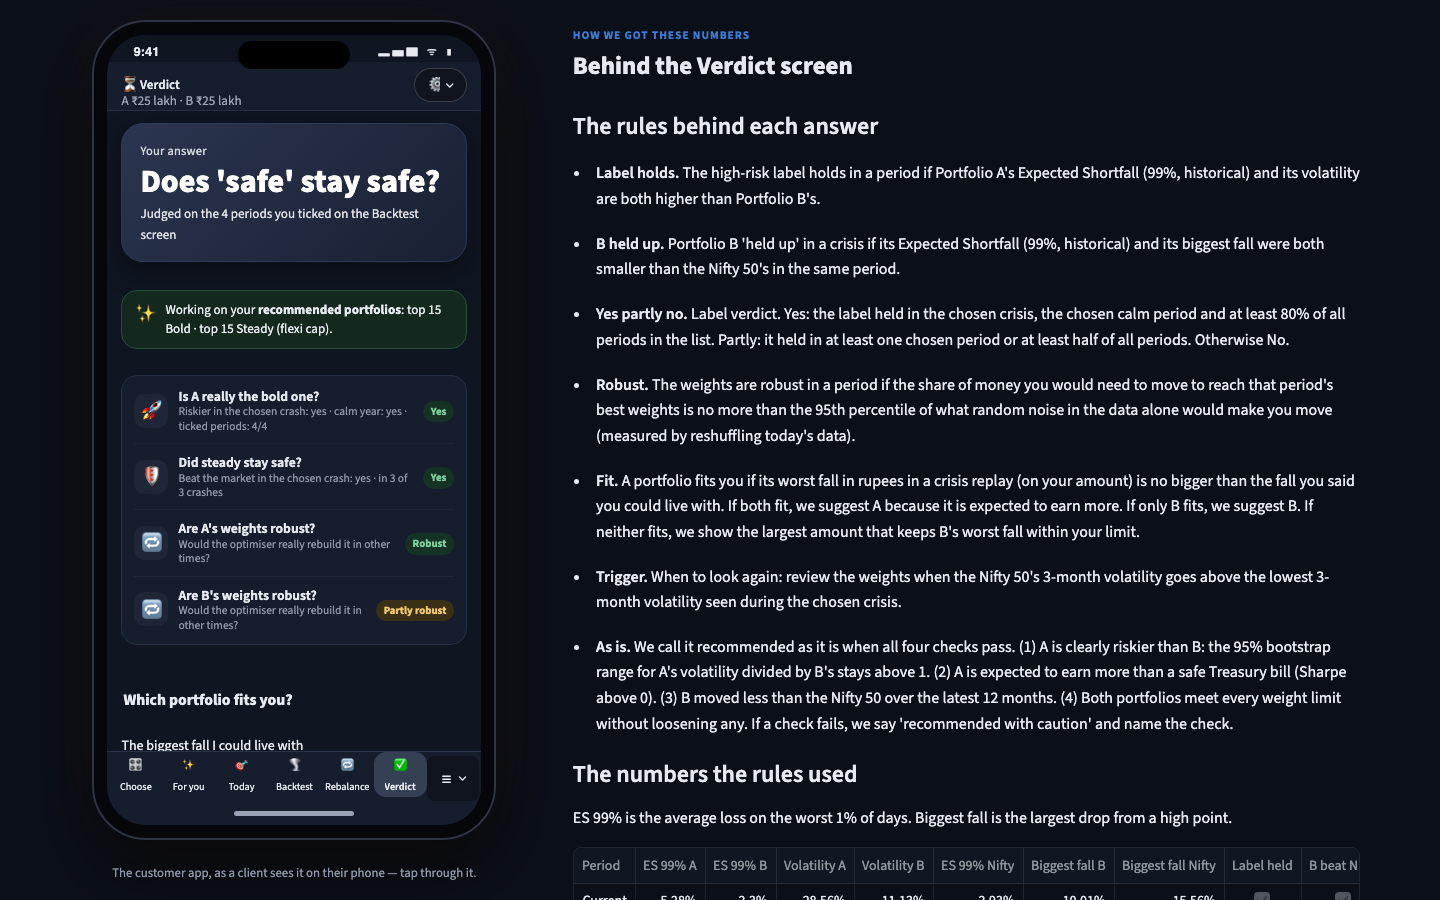
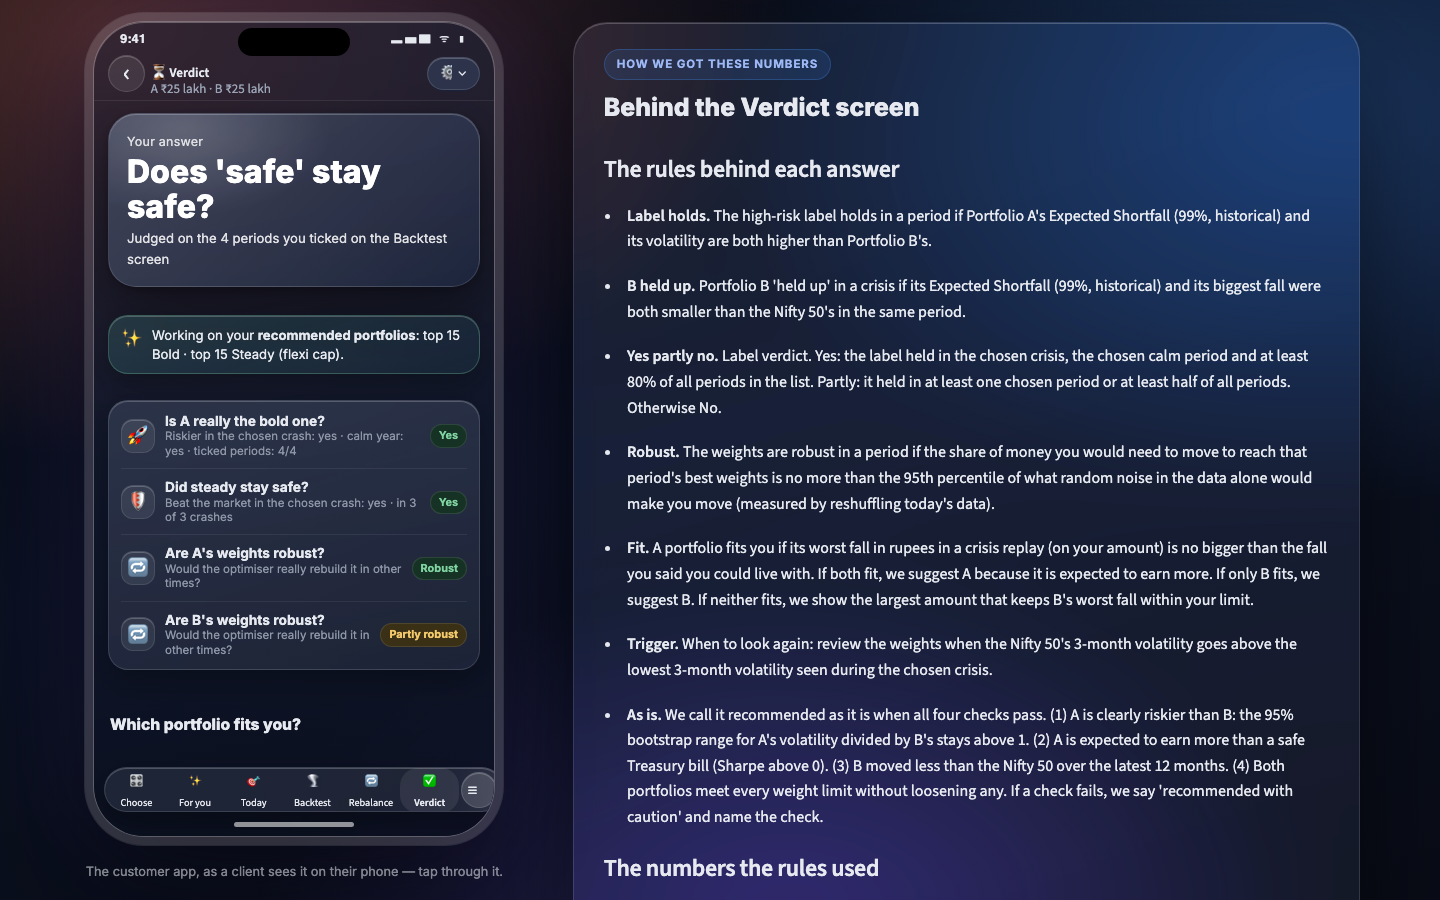
Spatial glass look, back button, always-visible tab bar
- Frosted-glass cards and windows over a soft ambient glow; floating glass phone and working panel; glowing pill buttons; Inter font
- Back button in the app bar (previous screen, else previous step of the flow)
- Tab bar always on screen: fixed floating bar on phones; the virtual phone fits the window height and stays in view while the working panel scrolls
- Phone layout flag kept in plain session state (widget state was dropped on page switches, so phones fell back to the framed layout)

diff --git a/src/ui.py b/src/ui.py
@@ -143,7 +143,7 @@ def fig_style(fig: go.Figure, height: int = 380, title: str | None = None) -> go
 
 
 def show(fig: go.Figure) -> None:
-    if st.session_state.get("phone") or _CTX["in_client"]:
+    if st.session_state.get("is_phone") or _CTX["in_client"]:
         h = fig.layout.height or 380
         fig.update_layout(height=min(int(h * 0.82), 420) if h < 600 else 520,
                           margin=dict(l=4, r=4, t=36 if (fig.layout.title.text or "") else 8, b=4),
@@ -188,7 +188,7 @@ def universe_table() -> pd.DataFrame:
 def init_state() -> None:
     for k, v in DEFAULT_STATE.items():
         st.session_state.setdefault(k, v)
-    st.session_state.setdefault("phone", detect_phone())
+    st.session_state.setdefault("is_phone", detect_phone())  # plain state: widget state is dropped on page switches
     res = default_results()
     st.session_state.setdefault("pick_A", list(res["picks"]["A"]))
     st.session_state.setdefault("pick_B", list(res["picks"]["B"]))
@@ -597,6 +597,161 @@ button[kind="primary"], button[kind="secondary"] { min-height: 2.8rem; border-ra
 """
 
 
+# ---------------------------------------------------------------- spatial look: glass windows floating over a soft glow
+SPATIAL_CSS = """
+<style>
+@import url('https://fonts.googleapis.com/css2?family=Inter:wght@400;500;600;700;800&display=swap');
+:root { --glass: rgba(255,255,255,.065); --glass-hi: rgba(255,255,255,.11); --edge: rgba(255,255,255,.13);
+  --edge-top: rgba(255,255,255,.30); --blur: blur(26px) saturate(165%);
+  --lift: 0 24px 60px rgba(0,0,0,.45), 0 2px 8px rgba(0,0,0,.25); --shine: inset 0 1px 0 rgba(255,255,255,.22); }
+.stApp { font-family: "Inter", -apple-system, BlinkMacSystemFont, "SF Pro Text", "Segoe UI", sans-serif;
+  background:
+    radial-gradient(1100px 680px at 8% 4%, rgba(232,115,90,.30), transparent 62%),
+    radial-gradient(1000px 640px at 92% 12%, rgba(59,125,216,.32), transparent 62%),
+    radial-gradient(900px 620px at 55% 105%, rgba(124,92,255,.26), transparent 60%),
+    linear-gradient(165deg, #060912 0%, #0A1020 48%, #080B15 100%) !important;
+  background-attachment: fixed !important; }
+[data-testid="stAppViewContainer"], [data-testid="stMain"], .main, [data-testid="stHeader"] { background: transparent !important; }
+.stApp h1, .stApp h2, .stApp h3, .stApp h4 { letter-spacing: -.015em; }
+
+/* glass surfaces */
+.app-plan, .app-tile, .app-cmp, .app-list, .app-verdict, .ptm-concept, .ptm-card, .app-note {
+  background: linear-gradient(160deg, var(--glass-hi), var(--glass)) !important; border: 1px solid var(--edge) !important;
+  backdrop-filter: var(--blur); -webkit-backdrop-filter: var(--blur);
+  box-shadow: var(--shine), 0 10px 30px rgba(0,0,0,.28) !important; transition: transform .25s ease, box-shadow .25s ease, border-color .25s ease; }
+.app-tile:hover, .app-plan:hover, .app-list:hover, .app-cmp:hover {
+  transform: translateY(-2px); border-color: rgba(255,255,255,.22) !important; box-shadow: var(--shine), 0 18px 40px rgba(0,0,0,.38) !important; }
+.app-tile, .app-cmp, .app-list, .app-note { border-radius: 20px !important; }
+.app-plan, .app-verdict { border-radius: 24px !important; }
+.app-tile.a { border-left: 1px solid var(--edge) !important; box-shadow: var(--shine), inset 3px 0 0 #E8735A, 0 10px 30px rgba(0,0,0,.28) !important; }
+.app-tile.b { border-left: 1px solid var(--edge) !important; box-shadow: var(--shine), inset 3px 0 0 #3B7DD8, 0 10px 30px rgba(0,0,0,.28) !important; }
+.app-note.warn { background: linear-gradient(160deg, rgba(242,201,107,.16), rgba(242,201,107,.05)) !important; border-color: rgba(242,201,107,.28) !important; }
+.app-note.good { background: linear-gradient(160deg, rgba(127,211,160,.16), rgba(127,211,160,.05)) !important; border-color: rgba(127,211,160,.28) !important; }
+.app-note.bad { background: linear-gradient(160deg, rgba(241,154,154,.16), rgba(241,154,154,.05)) !important; border-color: rgba(241,154,154,.28) !important; }
+.app-li { border-bottom-color: rgba(255,255,255,.07) !important; }
+.app-li .ic, .app-plan .ic { background: rgba(255,255,255,.08) !important; border: 1px solid rgba(255,255,255,.10);
+  box-shadow: var(--shine); border-radius: 12px !important; }
+.app-hero { border-radius: 28px !important; border: 1px solid var(--edge) !important; backdrop-filter: var(--blur); -webkit-backdrop-filter: var(--blur);
+  background: linear-gradient(135deg, rgba(255,255,255,.16) 0%, rgba(255,255,255,.04) 100%) !important;
+  box-shadow: var(--shine), var(--lift) !important; position: relative; overflow: hidden; }
+.app-hero::after { content: ""; position: absolute; inset: -40% 40% 40% -20%; background: radial-gradient(closest-side, rgba(255,255,255,.18), transparent);
+  pointer-events: none; }
+.app-hero.a { background: linear-gradient(135deg, rgba(232,115,90,.62), rgba(201,83,59,.22)) !important; }
+.app-hero.b { background: linear-gradient(135deg, rgba(59,125,216,.62), rgba(36,87,165,.22)) !important; }
+.app-hero.crisis { background: linear-gradient(135deg, rgba(220,72,72,.58), rgba(126,32,32,.22)) !important; }
+.app-hero.calm { background: linear-gradient(135deg, rgba(46,158,91,.58), rgba(28,107,60,.22)) !important; }
+.chip { backdrop-filter: blur(8px); border: 1px solid rgba(255,255,255,.10); }
+.app-step .n { box-shadow: 0 0 0 4px rgba(232,115,90,.18), 0 6px 16px rgba(232,115,90,.45); }
+
+/* controls: glass pills, glowing primary */
+.stApp button[kind="secondary"], .stApp [data-testid="stPopover"] button, .stApp [data-testid="stBaseButton-secondary"] {
+  background: rgba(255,255,255,.08) !important; border: 1px solid var(--edge) !important; border-radius: 999px !important;
+  backdrop-filter: var(--blur); box-shadow: var(--shine); transition: background .2s ease, transform .2s ease; }
+.stApp button[kind="secondary"]:hover { background: rgba(255,255,255,.14) !important; transform: translateY(-1px); }
+.stApp button[kind="primary"], .stApp [data-testid="stBaseButton-primary"] {
+  background: linear-gradient(135deg, #F08A6E 0%, #E8735A 45%, #C9533B 100%) !important; border: 1px solid rgba(255,255,255,.25) !important;
+  border-radius: 999px !important; box-shadow: inset 0 1px 0 rgba(255,255,255,.35), 0 10px 28px rgba(232,115,90,.45) !important;
+  transition: transform .2s ease, box-shadow .2s ease; }
+.stApp button[kind="primary"]:hover { transform: translateY(-1px); box-shadow: inset 0 1px 0 rgba(255,255,255,.35), 0 14px 36px rgba(232,115,90,.6) !important; }
+.stApp [data-baseweb="input"], .stApp [data-baseweb="select"] > div, .stApp [data-baseweb="textarea"] {
+  background: rgba(255,255,255,.06) !important; border-color: var(--edge) !important; border-radius: 14px !important; }
+.stApp [data-testid="stSegmentedControl"] button, .stApp [data-testid="stPills"] button { border-radius: 999px !important; }
+[data-testid="stPopoverBody"] { background: rgba(20,26,42,.72) !important; backdrop-filter: blur(30px) saturate(170%);
+  -webkit-backdrop-filter: blur(30px) saturate(170%); border: 1px solid var(--edge) !important; border-radius: 22px !important;
+  box-shadow: var(--shine), var(--lift) !important; }
+.stApp [data-testid="stExpander"] details { background: linear-gradient(160deg, var(--glass-hi), var(--glass)) !important;
+  border: 1px solid var(--edge) !important; border-radius: 20px !important; backdrop-filter: var(--blur); box-shadow: var(--shine); }
+.stApp [data-testid="stDataFrame"], .stApp [data-testid="stTable"] { border-radius: 18px; overflow: hidden; border: 1px solid var(--edge);
+  box-shadow: 0 10px 30px rgba(0,0,0,.25); }
+.stApp [data-testid="stPlotlyChart"], .stApp [data-testid="stGraphVizChart"] { background: linear-gradient(160deg, rgba(255,255,255,.05), rgba(255,255,255,.02));
+  border: 1px solid rgba(255,255,255,.08); border-radius: 22px; padding: 6px; }
+
+/* the virtual phone: a floating glass device */
+.st-key-ptm_phone { border: 0 !important; border-radius: 50px !important;
+  background: linear-gradient(170deg, rgba(30,38,58,.62), rgba(12,16,28,.72)) !important;
+  backdrop-filter: blur(34px) saturate(170%); -webkit-backdrop-filter: blur(34px) saturate(170%);
+  box-shadow: 0 0 0 1px rgba(255,255,255,.22), 0 0 0 9px rgba(255,255,255,.045), 0 0 0 10px rgba(255,255,255,.12),
+              inset 0 1px 0 rgba(255,255,255,.28), 0 50px 110px rgba(0,0,0,.6), 0 0 120px rgba(124,92,255,.18) !important;
+  transform: perspective(1600px) rotateY(3deg); transition: transform .5s ease; }
+.st-key-ptm_phone:hover { transform: perspective(1600px) rotateY(0deg); }
+.ptm-status, .st-key-ptm_screen, .ptm-homebar { background: transparent !important; }
+.st-key-ptm_appbar { border-bottom: 1px solid rgba(255,255,255,.08) !important; background: transparent !important; }
+.st-key-ptm_tabs { margin: 6px 10px 2px !important; border: 1px solid var(--edge) !important; border-radius: 26px !important;
+  background: rgba(255,255,255,.08) !important; backdrop-filter: var(--blur); -webkit-backdrop-filter: var(--blur);
+  box-shadow: var(--shine), 0 12px 30px rgba(0,0,0,.35) !important; }
+.st-key-ptm_tabs a { border-radius: 18px !important; transition: background .2s ease; }
+.st-key-ptm_tabs > div:has([data-testid="stPopover"]) { flex: 0 0 42px !important; }
+.st-key-ptm_tabs [data-testid="stPopover"] button { padding: 0 !important; min-width: 0 !important; }
+.st-key-ptm_tabs a:hover { background: rgba(255,255,255,.08); }
+.ptm-homebar span { background: rgba(255,255,255,.55) !important; }
+.ptm-caption-phone { color: rgba(230,233,239,.55) !important; }
+
+/* the working panel: a floating glass window beside the phone */
+.st-key-ptm_working { background: linear-gradient(160deg, rgba(255,255,255,.075), rgba(255,255,255,.025)) !important;
+  border: 1px solid var(--edge); border-radius: 34px; padding: 26px 30px 30px !important;
+  backdrop-filter: blur(30px) saturate(160%); -webkit-backdrop-filter: blur(30px) saturate(160%);
+  box-shadow: var(--shine), 0 40px 90px rgba(0,0,0,.45); }
+.ptm-working-head { color: #9DB8F5 !important; display: inline-block; padding: 5px 12px; border-radius: 999px;
+  background: rgba(59,125,216,.16); border: 1px solid rgba(59,125,216,.35); }
+.ptm-working-title { margin-top: .5rem !important; }
+
+/* the ☰ menu: a compact round button that stays inside the tab bar */
+.st-key-ptm_tabs { overflow: hidden; }
+.st-key-ptm_tabs [data-testid="stPopover"], .st-key-ptm_tabs [data-testid="stPopover"] > div { width: 38px !important; max-width: 38px !important; }
+.st-key-ptm_tabs > div:has([data-testid="stPopover"]) { flex: 0 0 40px !important; margin-right: 2px; }
+.st-key-ptm_tabs [data-testid="stPopover"] button { width: 36px !important; height: 36px !important; min-height: 36px !important;
+  border-radius: 50% !important; padding: 0 !important; justify-content: center; }
+.st-key-ptm_tabs [data-testid="stPopover"] button [data-testid="stIconMaterial"] { display: none !important; }
+
+/* back button: a round glass button in the app bar */
+.st-key-ptm_appbar [class*="st-key-ptm_back"] button { width: 2.3rem; height: 2.3rem; min-height: 2.3rem; padding: 0; border-radius: 50%;
+  background: rgba(255,255,255,.09); border: 1px solid var(--edge); box-shadow: var(--shine); font-size: 1.6rem; line-height: 1; }
+.st-key-ptm_appbar [class*="st-key-ptm_back"] button:hover { background: rgba(255,255,255,.16); }
+.st-key-ptm_appbar [class*="st-key-ptm_back"] button p { font-size: 1.6rem; line-height: 1; margin-top: -2px; }
+.st-key-ptm_appbar > div:has([data-testid="stMarkdown"]) { flex: 1 1 auto; min-width: 0; }
+
+/* the virtual phone stays in view while the working panel scrolls, and always fits the window */
+.st-key-ptm_stage [data-testid="stHorizontalBlock"] > [data-testid="stColumn"]:first-child {
+  position: sticky !important; top: .6rem; align-self: flex-start !important; z-index: 2; }
+div:has(> .st-key-ptm_screen) { height: clamp(360px, calc(100vh - 205px), 660px) !important; min-height: 0 !important; flex: 0 0 auto !important; }
+.st-key-ptm_screen { min-height: 0 !important; }
+.st-key-ptm_screen { height: 100% !important; }
+
+/* narrow screens without the phone flag: drop the device frame and float the tab bar at the bottom */
+@media (max-width: 767px) {
+  .st-key-ptm_working { padding: 16px !important; border-radius: 24px; }
+  .st-key-ptm_phone { transform: none !important; backdrop-filter: none !important; -webkit-backdrop-filter: none !important;
+    box-shadow: none !important; background: transparent !important; border-radius: 0 !important; }
+  div:has(> .st-key-ptm_screen), .st-key-ptm_screen { height: auto !important; max-height: none !important; overflow: visible !important; }
+  .st-key-ptm_screen > div { overflow: visible !important; }
+  .st-key-ptm_tabs { position: fixed !important; left: 10px !important; right: 10px !important; z-index: 999;
+    bottom: calc(10px + env(safe-area-inset-bottom)) !important; margin: 0 !important; background: rgba(18,23,38,.86) !important; }
+  .ptm-homebar { display: none; }
+  .block-container { padding-bottom: 7.5rem !important; }
+}
+</style>
+"""
+
+MOBILE_SPATIAL_CSS = """
+<style>
+[data-testid="stHeader"] { display: none !important; }
+.block-container { padding-top: .7rem !important; }
+.st-key-ptm_appbar { position: sticky; top: 8px !important; z-index: 990; margin: 0 0 .7rem 0 !important; width: 100% !important;
+  border-radius: 24px; padding: .4rem .55rem !important; background: rgba(20,26,42,.62) !important;
+  backdrop-filter: blur(24px) saturate(170%); -webkit-backdrop-filter: blur(24px) saturate(170%);
+  border: 1px solid rgba(255,255,255,.13) !important; box-shadow: inset 0 1px 0 rgba(255,255,255,.2), 0 12px 30px rgba(0,0,0,.4); }
+.st-key-ptm_tabs > div:has([data-testid="stPopover"]) { flex: 0 0 46px !important; }
+.st-key-ptm_tabs [data-testid="stPopover"] button { padding: 0 !important; min-width: 0 !important; }
+.st-key-ptm_tabs a p, .st-key-ptm_tabs a span { font-size: .62rem !important; }
+.st-key-ptm_tabs { left: 10px !important; right: 10px !important; bottom: calc(10px + env(safe-area-inset-bottom)) !important;
+  margin: 0 !important; border-radius: 28px !important; background: rgba(18,23,38,.86) !important;
+  backdrop-filter: blur(26px) saturate(170%); -webkit-backdrop-filter: blur(26px) saturate(170%);
+  box-shadow: inset 0 1px 0 rgba(255,255,255,.22), 0 18px 40px rgba(0,0,0,.5) !important; padding: .3rem .25rem !important; }
+.block-container { padding-bottom: 7.5rem !important; }
+</style>
+"""
+
+
 class _Client:
     """Wraps the customer-view container so charts drawn inside it are sized for a phone screen."""
 
@@ -616,9 +771,49 @@ class _Client:
         return getattr(self._c, name)
 
 
-def _app_bar(page_title: str, controls) -> None:
+FLOW = ["start", "prefs", "suggest", "weights", "test1", "test2", "verdict"]
+
+
+def _page_key(pages: dict, page_title: str) -> str | None:
+    for k, pg in pages.items():
+        if pg.title == page_title:
+            return k
+    return None
+
+
+def _back_target(pages: dict, page_title: str) -> str | None:
+    """Where ‹ Back goes: the screen you came from, else the previous step of the flow."""
+    s = st.session_state
+    cur = _page_key(pages, page_title)
+    if cur is None:
+        return None
+    hist = s.setdefault("_hist", [])
+    if not hist or hist[-1] != cur:
+        hist.append(cur)
+        del hist[:-30]
+    if len(hist) >= 2:
+        return hist[-2]
+    if cur in FLOW and FLOW.index(cur) > 0:
+        return FLOW[FLOW.index(cur) - 1]
+    return "suggest" if cur != "start" else None
+
+
+def _go_back(pages: dict, target: str) -> None:
+    hist = st.session_state.get("_hist", [])
+    if len(hist) >= 2 and hist[-2] == target:
+        hist.pop()  # leave the current screen; the target is now on top
+    else:
+        hist[:] = [target]
+    st.switch_page(pages[target])
+
+
+def _app_bar(page_title: str, controls, pages: dict | None = None) -> None:
+    target = _back_target(pages, page_title) if pages and st.session_state["amount_confirmed"] else None
     bar = st.container(key="ptm_appbar", horizontal=True, vertical_alignment="center", horizontal_alignment="distribute")
     with bar:
+        if target:
+            if st.button("‹", key=f"ptm_back_{page_title}", help="Back", type="tertiary"):
+                _go_back(pages, target)
         a, b = amounts()
         right_txt = f"A {inr_short(a)} · B {inr_short(b)}" if st.session_state["amount_confirmed"] else "Portfolio Time Machine"
         st.markdown(f"**⏳ {page_title.split(' — ')[0]}**  \n<span style='color:#9AA3B5'>{right_txt}</span>",
@@ -646,9 +841,11 @@ def setup_frames(pages: dict, page_title: str, controls) -> None:
     s = st.session_state
     confirmed = s["amount_confirmed"]
     st.html(APP_CSS)
-    if s.get("phone"):
+    if s.get("is_phone"):
         st.html(MOBILE_CSS)
-        _app_bar(page_title, controls)
+        st.html(SPATIAL_CSS)
+        st.html(MOBILE_SPATIAL_CSS)
+        _app_bar(page_title, controls, pages)
         client = st.container()
         working = st.expander("📐 How we got these numbers") if s.get("show_backing", True) else None
         if confirmed:
@@ -656,6 +853,7 @@ def setup_frames(pages: dict, page_title: str, controls) -> None:
         s["_frames"] = {"client": client, "working": working}
         return
     st.html(DEVICE_CSS)
+    st.html(SPATIAL_CSS)
     show_working = s.get("show_backing", True)
     stage = st.container(key="ptm_stage")
     with stage:
@@ -663,7 +861,7 @@ def setup_frames(pages: dict, page_title: str, controls) -> None:
         with cols[0]:
             with st.container(key="ptm_phone"):
                 st.html("<div class='ptm-status'><span>9:41</span><span class='island'></span><span class='icons'>▂▄▆ ᯤ ▮</span></div>")
-                _app_bar(page_title, controls)
+                _app_bar(page_title, controls, pages)
                 screen = st.container(key="ptm_screen", height=640, border=False)
                 if confirmed:
                     _tab_bar(pages, page_title)

diff --git a/app.py b/app.py
@@ -77,7 +77,9 @@ def controls(where: str) -> None:
     st.segmented_control("Confidence level", [0.95, 0.99], key="conf", format_func=lambda c: f"{c:.0%}", required=True)
     st.segmented_control("Horizon", [1, 10], key="horizon", format_func=lambda h: f"{h} day" + ("s" if h > 1 else ""), required=True)
     st.toggle("Show the Backing", key="show_backing", help="Off = the client view only")
-    st.toggle("📱 Full-screen app", key="phone", help="On: the app fills the screen, as on a real phone. Off: virtual phone + the working.")
+    st.session_state["phone_toggle"] = st.session_state["is_phone"]
+    st.toggle("📱 Full-screen app", key="phone_toggle", help="On: the app fills the screen, as on a real phone. Off: virtual phone + the working.",
+              on_change=lambda: st.session_state.update(is_phone=st.session_state["phone_toggle"]))
     if st.button("Reset to the default recommendation", width="stretch", key=f"reset_{where}"):
         ui.reset_team_picks()
         st.rerun()

diff --git a/src/charts.py b/src/charts.py
@@ -19,7 +19,7 @@ def _base(fig: go.Figure, height=380, title=None, yfmt=None, xfmt=None) -> go.Fi
     fig.update_layout(height=height, margin=dict(l=8, r=8, t=46 if title else 10, b=8),
                       title=dict(text=title or "", font=dict(size=14)),
                       legend=dict(orientation="h", yanchor="bottom", y=1.0, x=0, font=dict(size=11)),
-                      font=dict(size=12, family="Source Sans Pro, Helvetica, Arial", color="#C9CFDB"), plot_bgcolor="rgba(0,0,0,0)",
+                      font=dict(size=12, family="Inter, -apple-system, Helvetica, Arial", color="#C9CFDB"), plot_bgcolor="rgba(0,0,0,0)",
                       paper_bgcolor="rgba(0,0,0,0)", hoverlabel=dict(bgcolor="#1E2638", font=dict(color="#E6E9EF")))
     fig.update_xaxes(gridcolor="#263043", zeroline=False, tickformat=xfmt)
     fig.update_yaxes(gridcolor="#263043", zeroline=False, tickformat=yfmt)

diff --git a/tests/test_app.py b/tests/test_app.py
@@ -108,7 +108,7 @@ def test_custom_picks_recompute_in_app():
 
 
 def test_phone_layout_every_page():
-    at = app(phone=True)
+    at = app(is_phone=True)
     visit_all(at)
 
 
@@ -180,3 +180,15 @@ def test_recommendation_is_the_main_path_and_can_be_restored():
     assert not at.exception
     assert at.session_state["pick_A"] == at.session_state["rec_A"]
     assert "recommended portfolios" in text(at)
+
+
+def test_back_button_returns_to_previous_screen():
+    at = app(is_phone=True)
+    at.switch_page("views/01_suggest.py").run()
+    at.switch_page("views/05_weights.py").run()
+    back = [b for b in at.button if b.key and b.key.startswith("ptm_back_")]
+    assert back, "no back button"
+    back[0].click().run()
+    assert not at.exception
+    assert "Top 15 Bold" in text(at)
+    assert at.session_state["is_phone"]  # the phone layout survives page switches
